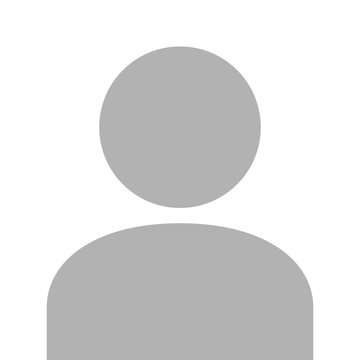
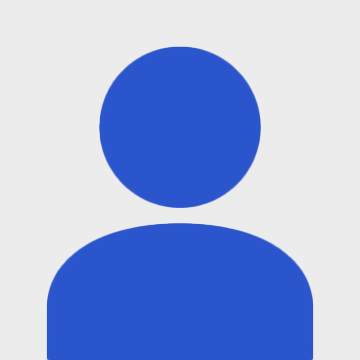
feat: changed default placeholder images + added pulse animation to status indicator

diff --git a/resources/js/components/playback/MixPlayback.vue b/resources/js/components/playback/MixPlayback.vue
@@ -81,12 +81,12 @@
             </div>
         </div>
 
-        <!-- Content based on active state - explicit Boolean check -->
+        <!-- Desktop player with no active queue -->
         <div v-else-if="isMixActive === false">
             <div class="flex-row items-center w-full hidden md:flex">
                 <div class="track-info flex items-center flex-1 gap-1">
                     <img
-                        src="/images/default-avatar.jpg"
+                        src="/images/default-song.png"
                         class="album-art"
                         alt="Album Art"
                     />
@@ -120,12 +120,13 @@
                     :is-sync-disabled="!isMixActive"
                 />
             </div>
+            <!-- Mobile playback with no active queue -->
             <div
                 class="flex flex-row items-center w-full md:hidden gap-2 sm:gap-0"
             >
                 <div class="track-info flex items-center flex-1">
                     <img
-                        src="/images/default-avatar.jpg"
+                        src="/images/default-song.png"
                         class="album-art"
                         alt="Album Art"
                     />
@@ -513,6 +514,9 @@ onUnmounted(() => {
     height: 60px;
     border-radius: 4px;
     margin-right: 0px;
+    /* Better rendering */
+    image-rendering: -webkit-optimize-contrast;
+    image-rendering: auto;
 }
 
 .text-info {

diff --git a/resources/js/components/playback/StatusIndicator.vue b/resources/js/components/playback/StatusIndicator.vue
@@ -8,14 +8,25 @@
                 'bg-red-900 text-red-400': isSyncDisabled,
             }"
         >
-            <div
-                class="size-2 rounded-full"
-                :class="{
-                    'bg-green-400': isPlaying && !isSyncDisabled,
-                    'bg-zinc-400': !isPlaying && !isSyncDisabled,
-                    'bg-red-400': isSyncDisabled,
-                }"
-            ></div>
+            <div class="relative w-2 h-2">
+                <div
+                    class="absolute inset-0 rounded-full animate-ping"
+                    :class="{
+                        'bg-green-400': isPlaying && !isSyncDisabled,
+                        'bg-zinc-400': !isPlaying && !isSyncDisabled,
+                        'bg-red-400': isSyncDisabled,
+                    }"
+                ></div>
+                <div
+                    class="w-2 h-2 rounded-full z-10"
+                    :class="{
+                        'bg-green-400': isPlaying && !isSyncDisabled,
+                        'bg-zinc-400': !isPlaying && !isSyncDisabled,
+                        'bg-red-400': isSyncDisabled,
+                    }"
+                ></div>
+            </div>
+
             {{
                 isSyncDisabled
                     ? "Sync Disabled"
